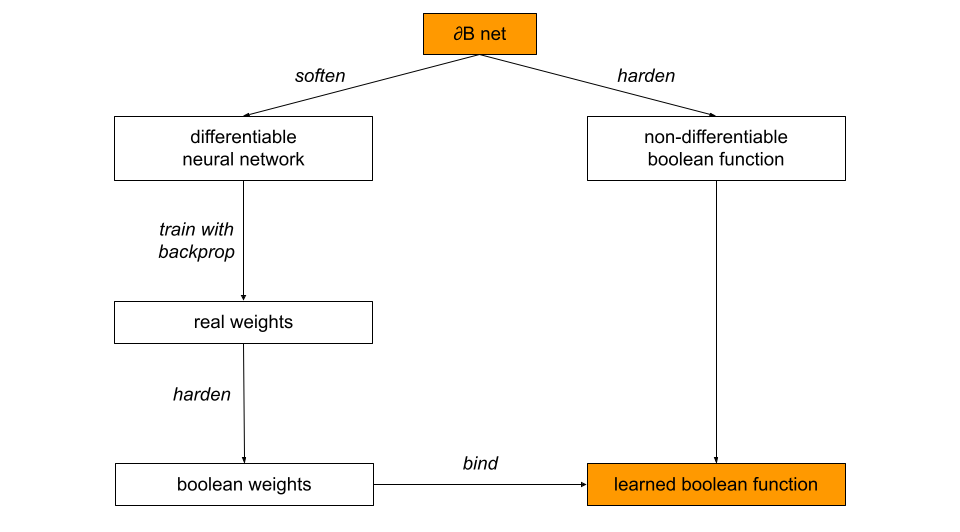
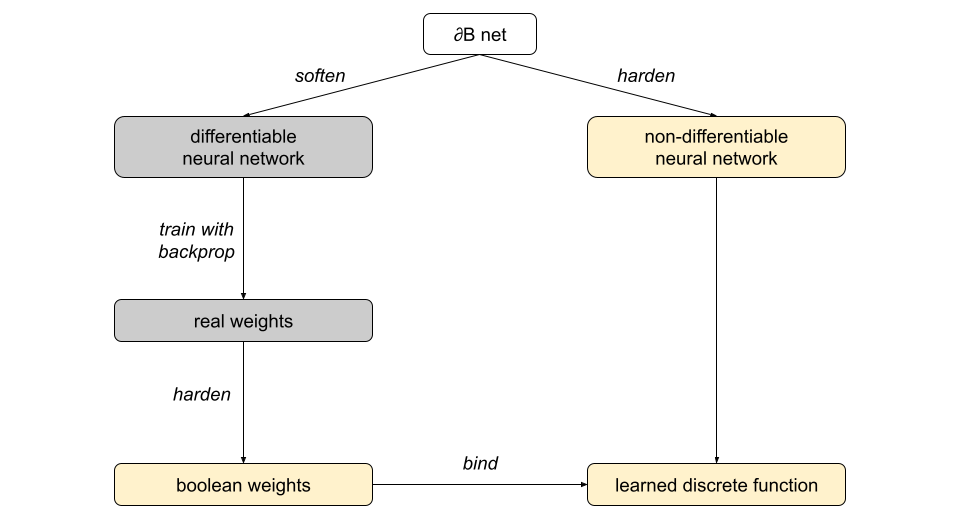
more

diff --git a/docs/db.tex b/docs/db.tex
@@ -49,15 +49,25 @@
 
 \section{Introduction}
 
+Neural networks are typically trained by gradient descent in weight-space, where the direction of descent minimises some loss function. The backpropagation algorithm \citep{rumelhart1986learning} is a highly efficient method to calculate the partial derivatives of the loss with respect to the network's weights. In consequence, typical neural networks are differentiable functions with weights represented by machine floats. This approach has led to tremendous advances in machine learning.
+
+However, there are drawbacks. First, we cannot easily learn discrete functions, such as logical predicates. In consequence, interpreting or verifying what a network has learned is difficult. Also, many learning problems naturally arise in boolean rather than real-valued domains. Second, representing weights as machine floats confers the benefit of time-efficient training but at the cost of memory-inefficient trained models. For example, network quantisation techniques (TODO:refs) demonstrate that full 64 of 32-bit precision weights are often unnecessary for a network's predictive performance, although there is a trade-off.
+
+This paper proposes a new approach to mitigating these drawbacks. The main idea is to define a type of neural network, called a $\partial \mathbb{B}$ net, which has two aspects: a `soft' aspect, which is a differentiable real-valued function trainable by backpropagation, and a `hard' aspect, which is a non-differentiable boolean function. Both aspects are semantically equivalent. We train the `soft' net as normal, using backpropagation, then `harden' the network and its weights to yield a learned boolean function with equivalent predictive performance (see figure \ref{fig:main-idea}). In consequence, interpreting and verifying what a $\partial \mathbb{B}$ net has learned is relatively less difficult. The option to bias towards learning boolean functions will reduce variance in some domains. And boolean-valued, 1-bit weights increase the memory-efficiency of trained models.
+
+The main contributions of this work are (i) defining novel activation functions that harden to semantically equivalent boolean functions, (ii) defining novel network architectures that effectively learn boolean functions to solve multi-class classification problems, and (iii) experiments that demonstrate $\partial \mathbb{B}$ nets compete with existing approaches in terms of predictive performance yet yield considerably smaller models.
+
+This paper examines related work (section \ref{sec:related-work}), (ii) etc.
+
 \begin{figure}[h]
 	\centering
-	\includegraphics[width=0.95\textwidth]{db-net.png}
-	\caption{{\em Learning discrete boolean-valued functions with a $\partial\mathbb{B}$ net.}}
-	\label{fig:noisy-xor-architecture}
+	\includegraphics[width=0.9\textwidth]{db-net.png}
+	\caption{{\em Learning discrete boolean-valued functions with a $\partial\mathbb{B}$ net.} A $\partial \mathbb{B}$ net specifies (i) a differentiable neural network that is hard-equivalent to (ii) a non-differentiable discrete function. The neural network is trained as normal with backpropagation to yield a set of real weights. The real weights are hardened to boolean values and then bound with the discrete function. The result is a learned discrete function that performs identically to the trained network.}
+	\label{fig:main-idea}
 \end{figure}
 
 
-\section{Related work}
+\section{Related work}\label{sec:related-work}
 
 \section{$\partial\mathbb{B}$ nets}
 
@@ -66,7 +76,7 @@ A {\em soft-bit} is a real value in the range $[0,1]$ and a {\em hard-bit} is a 
 \end{definition}
 
 \begin{definition}[Hardening]
-The {\em hardening} function, $h(x_{1}, \dots, x_{n}) = [f(x_{1}), \dots, f(x_{n})]$, converts soft-bits to hard-bits, where
+The {\em hardening} function, $\operatorname{harden}(x_{1}, \dots, x_{n}) = [f(x_{1}), \dots, f(x_{n})]$, converts soft-bits to hard-bits, where
 \begin{equation*}
 f(x) =
 \begin{cases}
@@ -78,7 +88,10 @@ f(x) =
 
 \begin{definition}[Hard-equivalence]
 	A function, $f: [0,1]^n \rightarrow [0,1]^m$, is {\em hard-equivalent} to a boolean function, $g: \{1,0\}^n \rightarrow \{1,0\}^m$,	if
-	$h(f(h({\bf x}))) = g(h({\bf x}))$ for all ${\bf x} \in [0,1]^{n}$.
+	\begin{equation*}
+	\operatorname{harden}(f(\operatorname{harden}({\bf x}))) = g(\operatorname{harden}({\bf x}))
+	\end{equation*}
+for all ${\bf x} \in [0,1]^{n}$.
 \end{definition}
 
 \subsection{Differentiable boolean functions}
@@ -100,7 +113,7 @@ Define
 Define 
 \begin{equation*}
 \begin{aligned}
-\operatorname{representative-bit}: [0,1]^{n} \times 1,2,\dots,n &\to [0,1],\\
+\operatorname{augmented-bit}: [0,1]^{n} \times 1,2,\dots,n &\to [0,1],\\
 ({\bf x}, i) &\mapsto 
 \begin{cases}
 1/2 + \operatorname{margin}({\bf x}, i) & \text{if } x_{i} > 1/2 \\
@@ -137,7 +150,7 @@ Define
 \begin{equation*}
 \begin{aligned}
 \partial\text{AND}: [0,1]^{n} &\to [0,1], \\
-{\bf x} &\mapsto \operatorname{representative-bit}({\bf x}, \operatorname{argmin}\limits_{i} x[i])
+{\bf x} &\mapsto \operatorname{augmented-bit}({\bf x}, \operatorname{argmin}\limits_{i} x[i])
 \end{aligned}
 \end{equation*}
 $\partial${AND} is hard-equivalent to the boolean function $\bigwedge_{i=1}^{n} x_i$ (proposition \ref{prop:and}).
@@ -159,7 +172,7 @@ Define
 \begin{equation*}
 \begin{aligned}
 \partial\text{OR}: [0,1]^{n} &\to [0,1], \\
-{\bf x} &\mapsto \operatorname{representative-bit}({\bf x}, \operatorname{argmax}\limits_{i} x[i])
+{\bf x} &\mapsto \operatorname{augmented-bit}({\bf x}, \operatorname{argmax}\limits_{i} x[i])
 \end{aligned}
 \end{equation*}
 $\partial${OR} is hard-equivalent to the boolean function $\bigvee_{i=1}^{n} x_i$ (proposition \ref{prop:or}).
@@ -215,7 +228,7 @@ Define
 \begin{equation*}
 \begin{aligned}
 	\partial\text{MAJORITY}: [0,1]^{n} &\to [0,1], \\
-	{\bf x} &\mapsto \operatorname{representative-bit}(\operatorname{sort}({\bf x}), \operatorname{majority-index}({\bf x}))
+	{\bf x} &\mapsto \operatorname{augmented-bit}(\operatorname{sort}({\bf x}), \operatorname{majority-index}({\bf x}))
 \end{aligned}
 \end{equation*}
 \begin{comment}
@@ -313,6 +326,16 @@ A single OR neuron maps $n$ soft-bit inputs to a single soft-bit value. A $\part
 todo: architectures
 
 todo: multi-label classification
+
+Define
+\begin{equation*}
+\begin{aligned}
+\partial\text{HARDEN}: [0,1]^{n} &\to [0,1]^{n}, \\
+{\bf x} &\mapsto \operatorname{harden}({\bf x})\text{.}
+\end{aligned}
+\end{equation*}
+A $\partial\text{HARDEN}$ layer maps $m$ soft-bit inputs to $n$ hard-bit outputs. The $\operatorname{harden}$ function is not differentiable and therefore we use the straight-through estimator \citep{DBLP:journals/corr/BengioLC13} during backpropagation.
+
 
 \section{Experiments}
 
